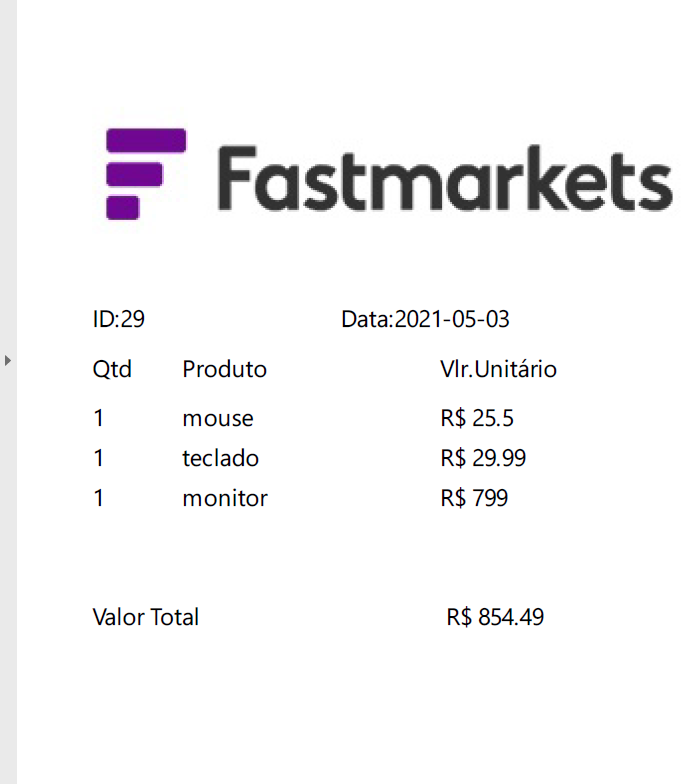
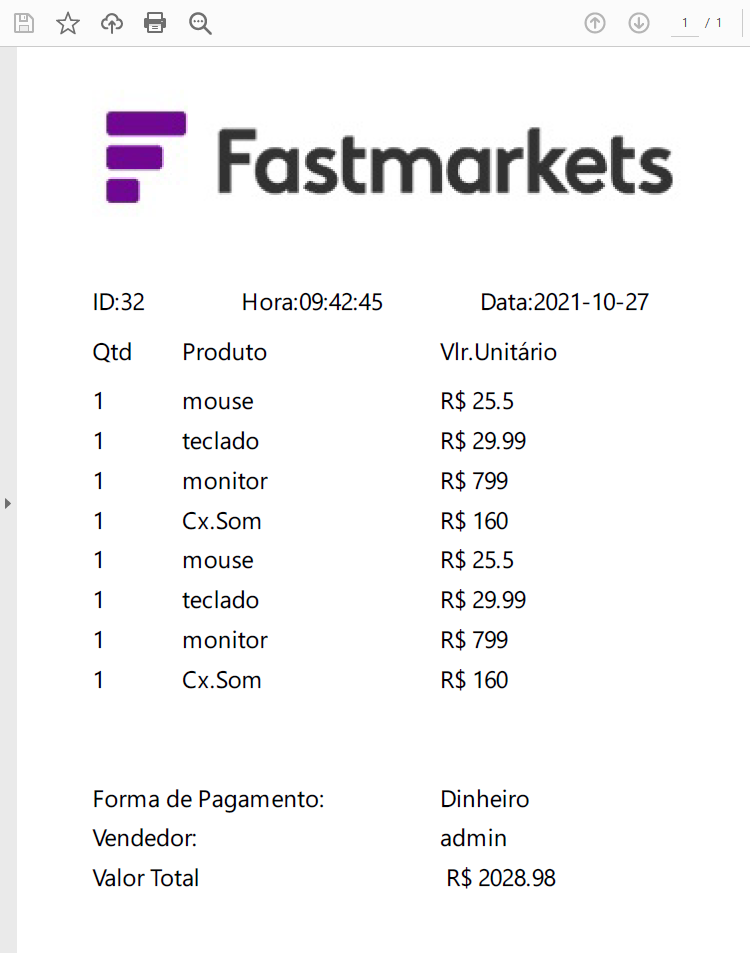
Atualizando programa.
Funções atualizadas

diff --git a/window_gerenciarvenda.cpp b/window_gerenciarvenda.cpp
@@ -129,6 +129,14 @@ void window_gerenciarVenda::on_btn_gerarPdf_clicked()
 
     painter.drawPixmap(25,25,QPixmap(":/imagens/fastmarket-logo.jpg"));
 
+    con.abrir();
+    QSqlQuery query;
+    QString nomeDoVendedor;
+    nomeDoVendedor = ui->twVendas->item(ui->twVendas->currentRow(),3)->text();
+    query.prepare("select nome_user from tb_usuarios where id_usuario = '"+nomeDoVendedor+"'");
+    query.exec();
+    query.first();
+
     painter.drawText(25,200,"ID:"+ui->twVendas->item(ui->twVendas->currentRow(),0)->text());
     painter.drawText(100,200,"Hora:"+ui->twVendas->item(ui->twVendas->currentRow(),2)->text());
     painter.drawText(220,200,"Data:"+ui->twVendas->item(ui->twVendas->currentRow(),1)->text());
@@ -144,21 +152,18 @@ void window_gerenciarVenda::on_btn_gerarPdf_clicked()
         linha+=salto;
     }
 
-    painter.drawText(25,320,"Forma de Pagamento:");
-    painter.drawText(200,320,ui->twVendas->item(ui->twVendas->currentRow(),5)->text());
-    painter.drawText(25,340,"Vendedor:");
+    linha+=40;
+    painter.drawText(25,linha,"Forma de Pagamento:");
+    painter.drawText(200,linha,ui->twVendas->item(ui->twVendas->currentRow(),5)->text());
+    linha+=salto;
+    painter.drawText(25,linha,"Vendedor:");
+    painter.drawText(200,linha,query.value(0).toString());
+    linha+=salto;
+    painter.drawText(25,linha,"Valor Total ");
+    painter.drawText(200,linha," R$ "+ui->twVendas->item(ui->twVendas->currentRow(),4)->text());
+    linha+=salto;
 
-    con.abrir();
-    QSqlQuery query;
-    QString nomeDoVendedor;
-    nomeDoVendedor = ui->twVendas->item(ui->twVendas->currentRow(),3)->text();
-    query.prepare("select nome_user from tb_usuarios where id_usuario = '"+nomeDoVendedor+"'");
-    query.exec();
-    query.first();
-
-    painter.drawText(200,340,query.value(0).toString());
-    painter.drawText(25,360,"Valor Total ");
-    painter.drawText(200,360," R$ "+ui->twVendas->item(ui->twVendas->currentRow(),4)->text());
+    linha+=salto;
 
     /*
     printer.newPage();

diff --git a/README.md b/README.md
@@ -6,21 +6,7 @@ Tecnologias utilizadas: C++,QT5 framework e SqLite.
 Estes arquivos podem ser copilados para windows ou linux,mas para isso você precisará de um copilador c++
 Eu utilizei o QTcreator com o Desktop mingw.
 
-# Como copilar programa (método pelo QTCreator)
-
-1 - Copilar o progama no QTCreator para release 
-
-2 - Entrar na pasta raiz (pasta release do programa).
-
-3 - abrir o terminal do QT mingw
-
-4 - Entrar na raiz do programa com o comando 'cd'.
-
-5 - copilar com o comando 
-
-  windeployqt.exe .
-
-# Prints
+#Prints
 
 ![alt text](https://github.com/hun251/FastMarket/blob/main/prints/1.png)
 
